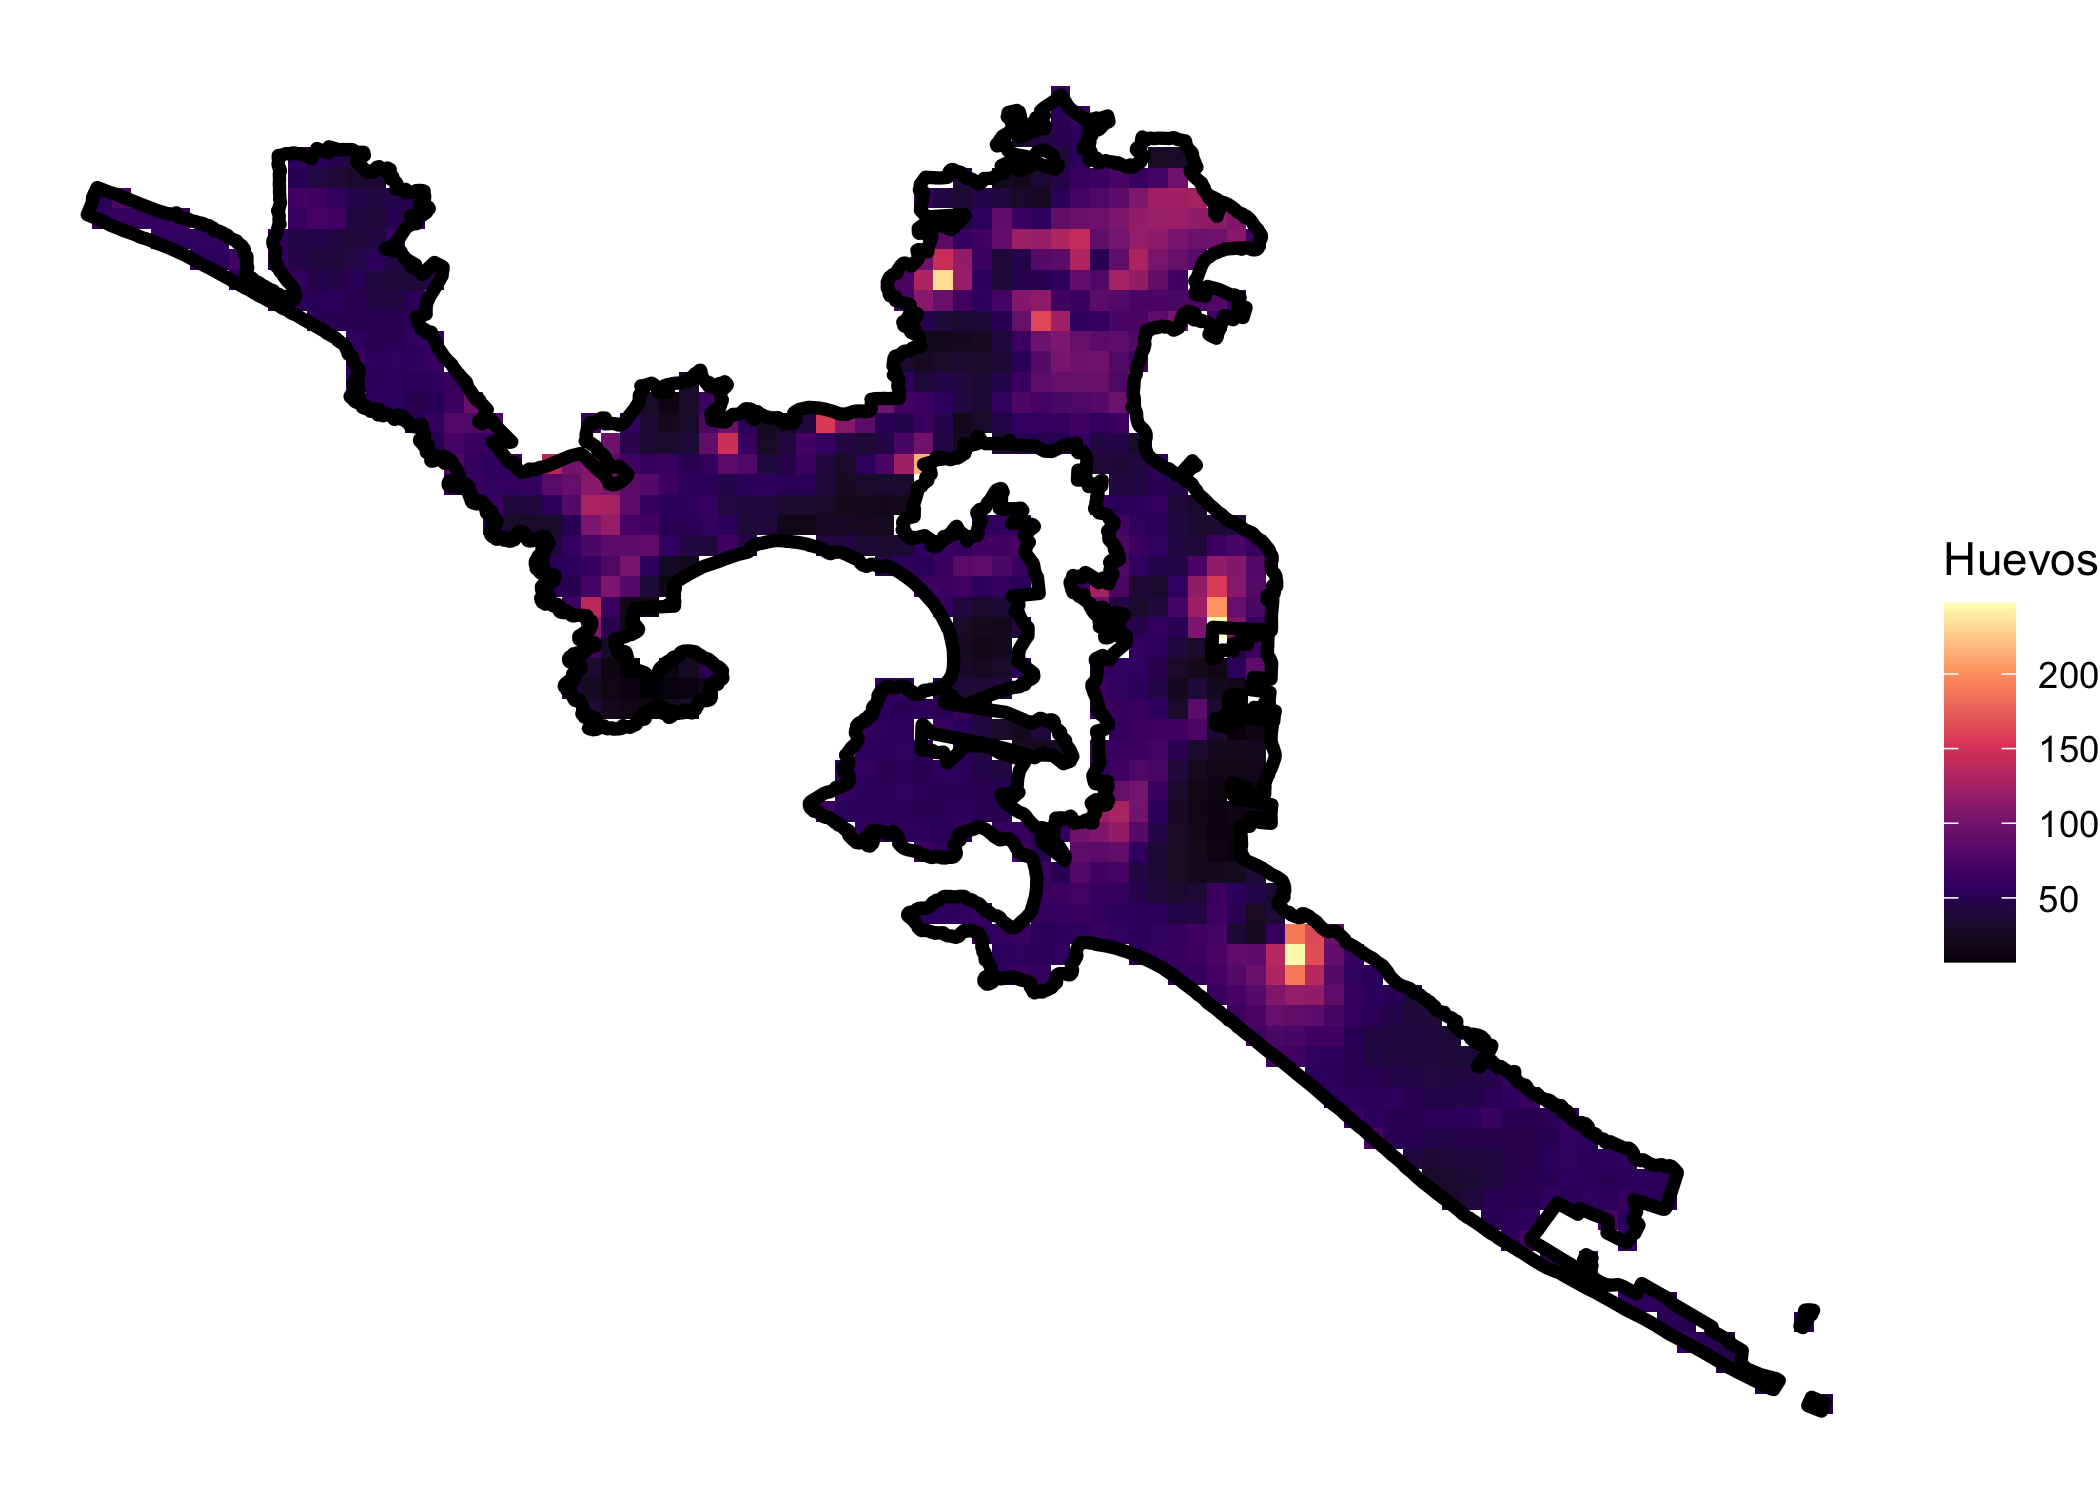
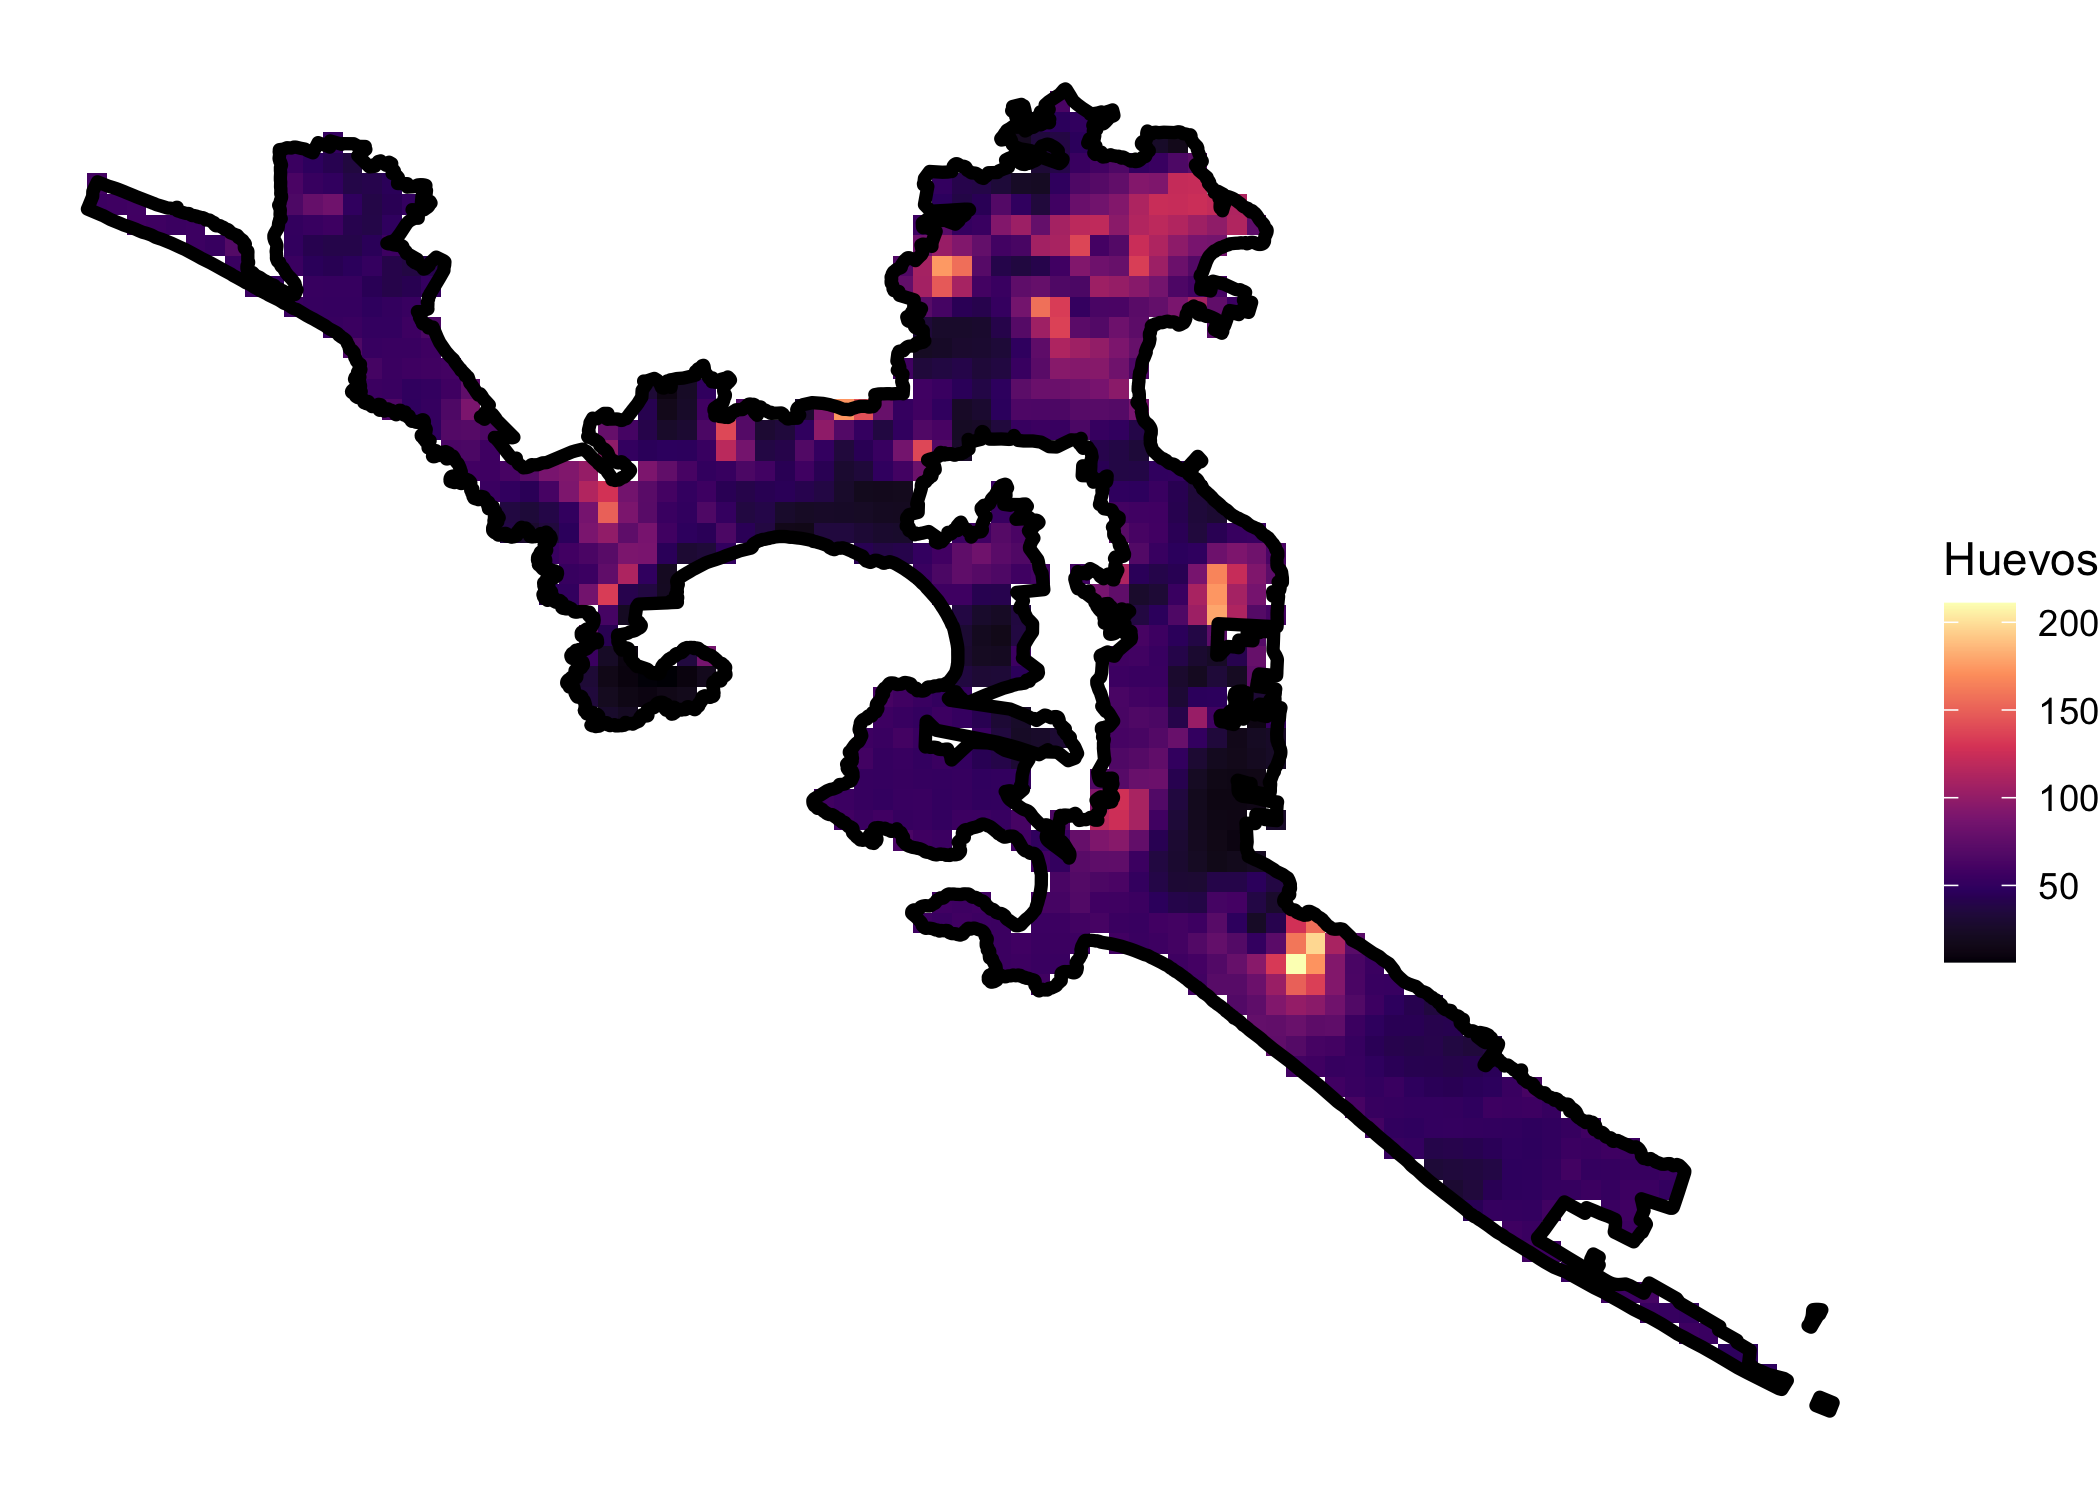
This commit update the pkg

diff --git a/README.md b/README.md
@@ -10,6 +10,8 @@ Version](https://badge.fury.io/rb/jekyll-theme-cayman.svg)](https://badge.fury.i
 All
 Releases](https://img.shields.io/github/downloads/fdzul/deneggs/total.svg)]()
 
+<img align="center" src="https://github.com/fdzul/deneggs/blob/main/deneggs.png?raw=true" alt="logo" width="140">
+
 **deneggs is a package developed in the department of prevention and
 control of diseases transmitted by vector of the [Secretary of Health of
 Veracruz](https://www.ssaver.gob.mx/) and with colaboration of the
@@ -122,14 +124,14 @@ knitr::kable(head(acapulco$data), "simple")
 knitr::kable(head(acapulco$pred), "simple")
 ```
 
-|         x |        y | pred_mean |   pred_sd |  pred_ll |  pred_ul | ws_mean | ws_sd | week | fam                    |     dic |
-|----------:|---------:|----------:|----------:|---------:|---------:|--------:|------:|-----:|:-----------------------|--------:|
-| -99.69653 | 16.71294 |  46.93143 |  8.926602 | 31.85718 | 31.85718 |      NA |    NA |   30 | zeroinflatednbinomial1 | 52503.9 |
-| -99.70695 | 16.71641 |  47.58182 | 12.139977 | 28.17665 | 28.17665 |      NA |    NA |   30 | zeroinflatednbinomial1 | 52503.9 |
-| -99.71389 | 16.71989 |  47.50852 | 11.812690 | 28.52137 | 28.52137 |      NA |    NA |   30 | zeroinflatednbinomial1 | 52503.9 |
-| -99.72084 | 16.72336 |  61.39220 | 53.967423 | 10.45366 | 10.45366 |      NA |    NA |   30 | zeroinflatednbinomial1 | 52503.9 |
-| -99.71737 | 16.72336 |  51.73372 | 26.331637 | 17.98862 | 17.98862 |      NA |    NA |   30 | zeroinflatednbinomial1 | 52503.9 |
-| -99.71389 | 16.72336 |  48.46528 | 15.705557 | 24.81079 | 24.81079 |      NA |    NA |   30 | zeroinflatednbinomial1 | 52503.9 |
+|         x |        y | pred_mean |  pred_sd |  pred_ll |  pred_ul | ws_mean | ws_sd | week | fam                    |   dic |
+|----------:|---------:|----------:|---------:|---------:|---------:|--------:|------:|-----:|:-----------------------|------:|
+| -99.70784 | 16.71790 |  47.67103 | 12.37079 | 27.97067 | 27.97067 |      NA |    NA |   30 | zeroinflatednbinomial1 | 52505 |
+| -99.71478 | 16.72138 |  47.77636 | 12.82593 | 27.50750 | 27.50750 |      NA |    NA |   30 | zeroinflatednbinomial1 | 52505 |
+| -99.71131 | 16.72138 |  47.89692 | 13.33242 | 27.00629 | 27.00629 |      NA |    NA |   30 | zeroinflatednbinomial1 | 52505 |
+| -99.72173 | 16.72485 |  56.62858 | 40.28339 | 13.15570 | 13.15570 |      NA |    NA |   30 | zeroinflatednbinomial1 | 52505 |
+| -99.71826 | 16.72485 |  53.87441 | 32.46604 | 15.49111 | 15.49111 |      NA |    NA |   30 | zeroinflatednbinomial1 | 52505 |
+| -99.72867 | 16.72832 |  54.34492 | 33.81270 | 15.02876 | 15.02876 |      NA |    NA |   30 | zeroinflatednbinomial1 | 52505 |
 
 ``` r
 knitr::kable(head(acapulco$dics), "simple")
@@ -137,25 +139,25 @@ knitr::kable(head(acapulco$dics), "simple")
 
 |       dic | fam                    |
 |----------:|:-----------------------|
-| 101955.80 | poisson                |
+| 101955.79 | poisson                |
 |  89688.48 | zeroinflatedpoisson0   |
 |  89771.94 | zeroinflatedpoisson1   |
-|  52681.89 | nbinomial              |
+|  52681.60 | nbinomial              |
 |  52799.23 | nbinomial2             |
-|  52546.21 | zeroinflatednbinomial0 |
+|  52546.25 | zeroinflatednbinomial0 |
 
 ``` r
 knitr::kable(head(acapulco$hotspots), "simple")
 ```
 
-|         x |        y | pred_mean |   pred_sd |  pred_ll |  pred_ul | ws_mean | ws_sd | week | fam                    |     dic | z_score    | hotspots    |
-|----------:|---------:|----------:|----------:|---------:|---------:|--------:|------:|-----:|:-----------------------|--------:|:-----------|:------------|
-| -99.69653 | 16.71294 |  46.93143 |  8.926602 | 31.85718 | 31.85718 |      NA |    NA |   30 | zeroinflatednbinomial1 | 52503.9 | -0.5942301 | No Hotspots |
-| -99.70695 | 16.71641 |  47.58182 | 12.139977 | 28.17665 | 28.17665 |      NA |    NA |   30 | zeroinflatednbinomial1 | 52503.9 | -0.8254357 | No Hotspots |
-| -99.71389 | 16.71989 |  47.50852 | 11.812690 | 28.52137 | 28.52137 |      NA |    NA |   30 | zeroinflatednbinomial1 | 52503.9 | -0.4882049 | No Hotspots |
-| -99.72084 | 16.72336 |  61.39220 | 53.967423 | 10.45366 | 10.45366 |      NA |    NA |   30 | zeroinflatednbinomial1 | 52503.9 | -0.5543260 | No Hotspots |
-| -99.71737 | 16.72336 |  51.73372 | 26.331637 | 17.98862 | 17.98862 |      NA |    NA |   30 | zeroinflatednbinomial1 | 52503.9 | -0.5017920 | No Hotspots |
-| -99.71389 | 16.72336 |  48.46528 | 15.705557 | 24.81079 | 24.81079 |      NA |    NA |   30 | zeroinflatednbinomial1 | 52503.9 | -0.8069366 | No Hotspots |
+|         x |        y | pred_mean |  pred_sd |  pred_ll |  pred_ul | ws_mean | ws_sd | week | fam                    |   dic | z_score    | hotspots    |
+|----------:|---------:|----------:|---------:|---------:|---------:|--------:|------:|-----:|:-----------------------|------:|:-----------|:------------|
+| -99.70784 | 16.71790 |  47.67103 | 12.37079 | 27.97067 | 27.97067 |      NA |    NA |   30 | zeroinflatednbinomial1 | 52505 | -0.5459522 | No Hotspots |
+| -99.71478 | 16.72138 |  47.77636 | 12.82593 | 27.50750 | 27.50750 |      NA |    NA |   30 | zeroinflatednbinomial1 | 52505 | -0.5028567 | No Hotspots |
+| -99.71131 | 16.72138 |  47.89692 | 13.33242 | 27.00629 | 27.00629 |      NA |    NA |   30 | zeroinflatednbinomial1 | 52505 | -0.6640205 | No Hotspots |
+| -99.72173 | 16.72485 |  56.62858 | 40.28339 | 13.15570 | 13.15570 |      NA |    NA |   30 | zeroinflatednbinomial1 | 52505 | -0.5329307 | No Hotspots |
+| -99.71826 | 16.72485 |  53.87441 | 32.46604 | 15.49111 | 15.49111 |      NA |    NA |   30 | zeroinflatednbinomial1 | 52505 | -0.5603690 | No Hotspots |
+| -99.72867 | 16.72832 |  54.34492 | 33.81270 | 15.02876 | 15.02876 |      NA |    NA |   30 | zeroinflatednbinomial1 | 52505 | -0.1609808 | No Hotspots |
 
 ``` r
 
